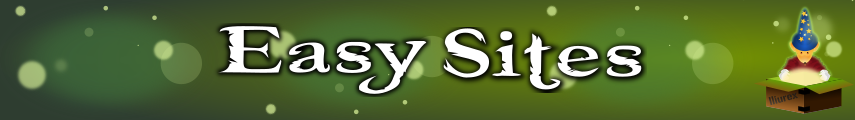
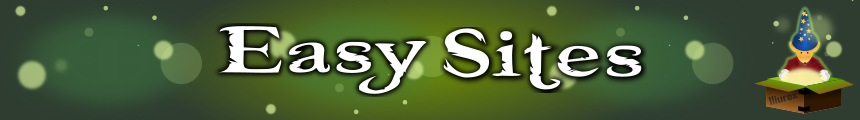
Fixed login window

diff --git a/lliurex-easy-sites/python3-easysites/rsrc/easy-sites.css b/lliurex-easy-sites/python3-easysites/rsrc/easy-sites.css
@@ -196,3 +196,10 @@
 		box-shadow: 0px 0px 6px @arc-blue;
 		
 	}
+
+	#BANNER-BOX
+	{
+
+		background-color: #2e3d30;
+
+	}

diff --git a/lliurex-easy-sites/python3-easysites/MainWindow.py b/lliurex-easy-sites/python3-easysites/MainWindow.py
@@ -61,6 +61,7 @@ class MainWindow:
 		self.login_msg_label=builder.get_object("login_msg_label")
 
 		self.option_box=builder.get_object("options_box")
+		self.image_banner=builder.get_object("image_banner")
 		self.toolbar=builder.get_object("toolbar")
 		self.option_separator=builder.get_object("option_separator")
 		self.add_button=builder.get_object("add_button")
@@ -125,9 +126,10 @@ class MainWindow:
 		self.password_entry.set_name("CUSTOM-ENTRY")
 		self.server_ip_entry.set_name("CUSTOM-ENTRY")
 		self.search_entry.set_name("CUSTOM-ENTRY")
+
 		#self.waiting_label.set_name("WAITING_LABEL")
 
-		#self.banner_box.set_name("BANNER_BOX")
+		self.image_banner.set_name("BANNER-BOX")
 
 	#def set_css_info	
 				
